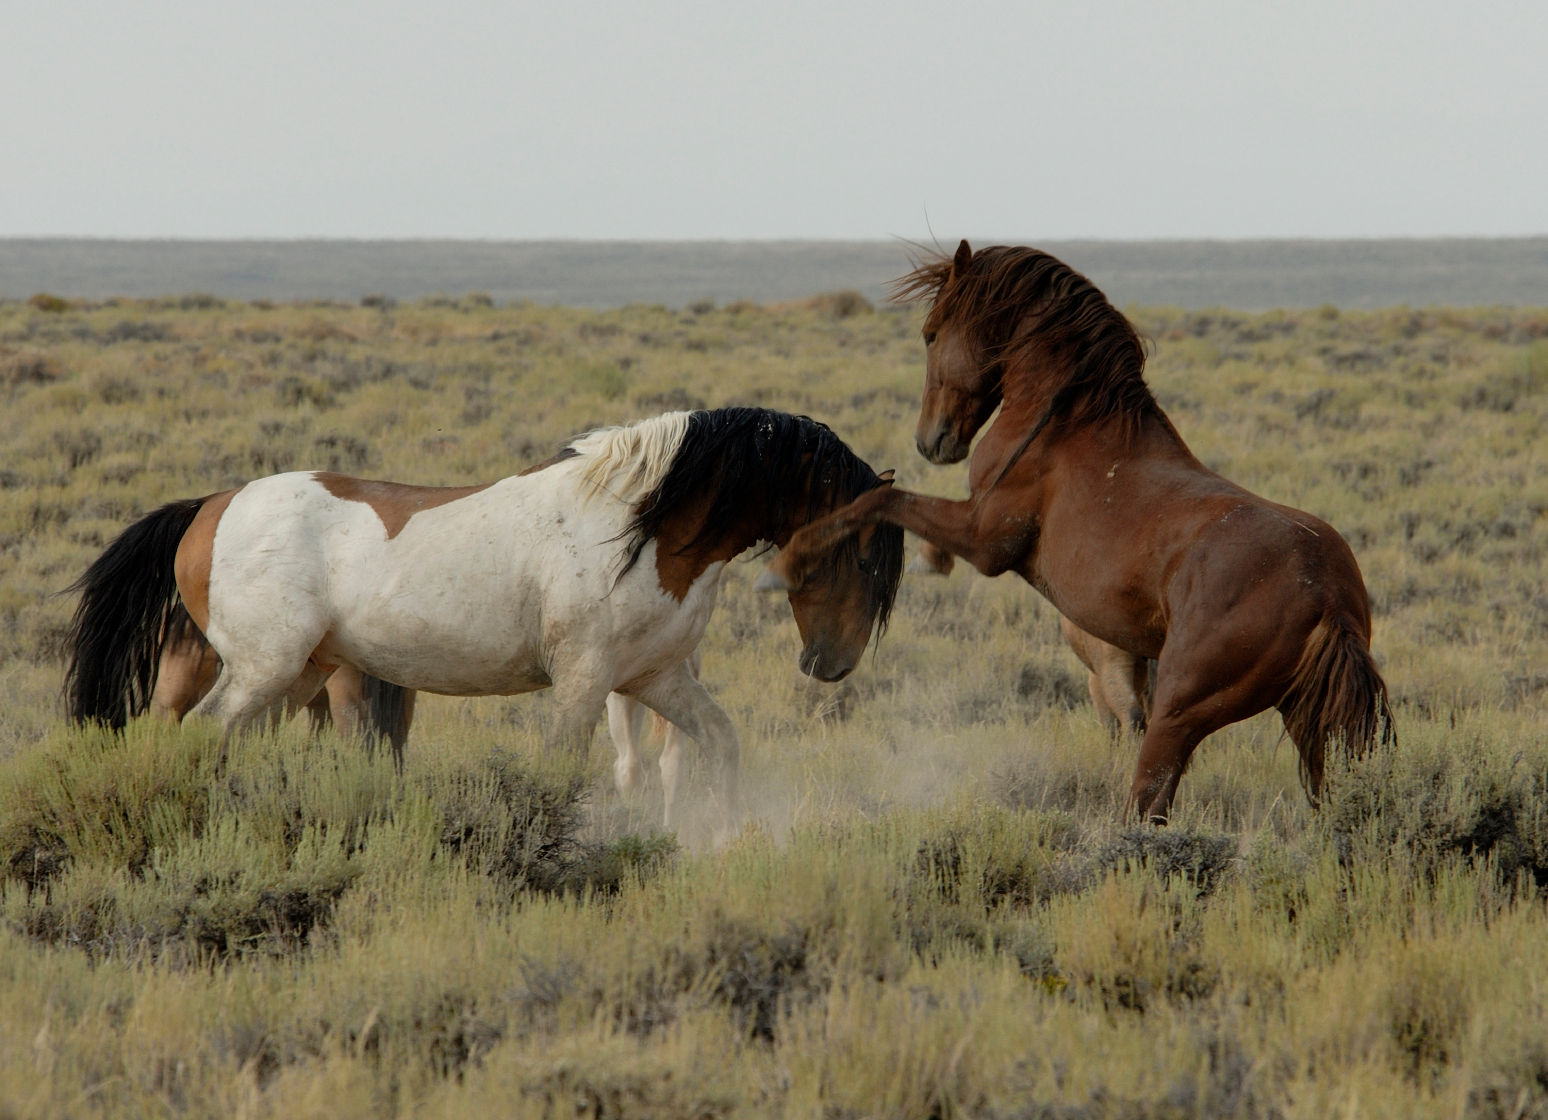
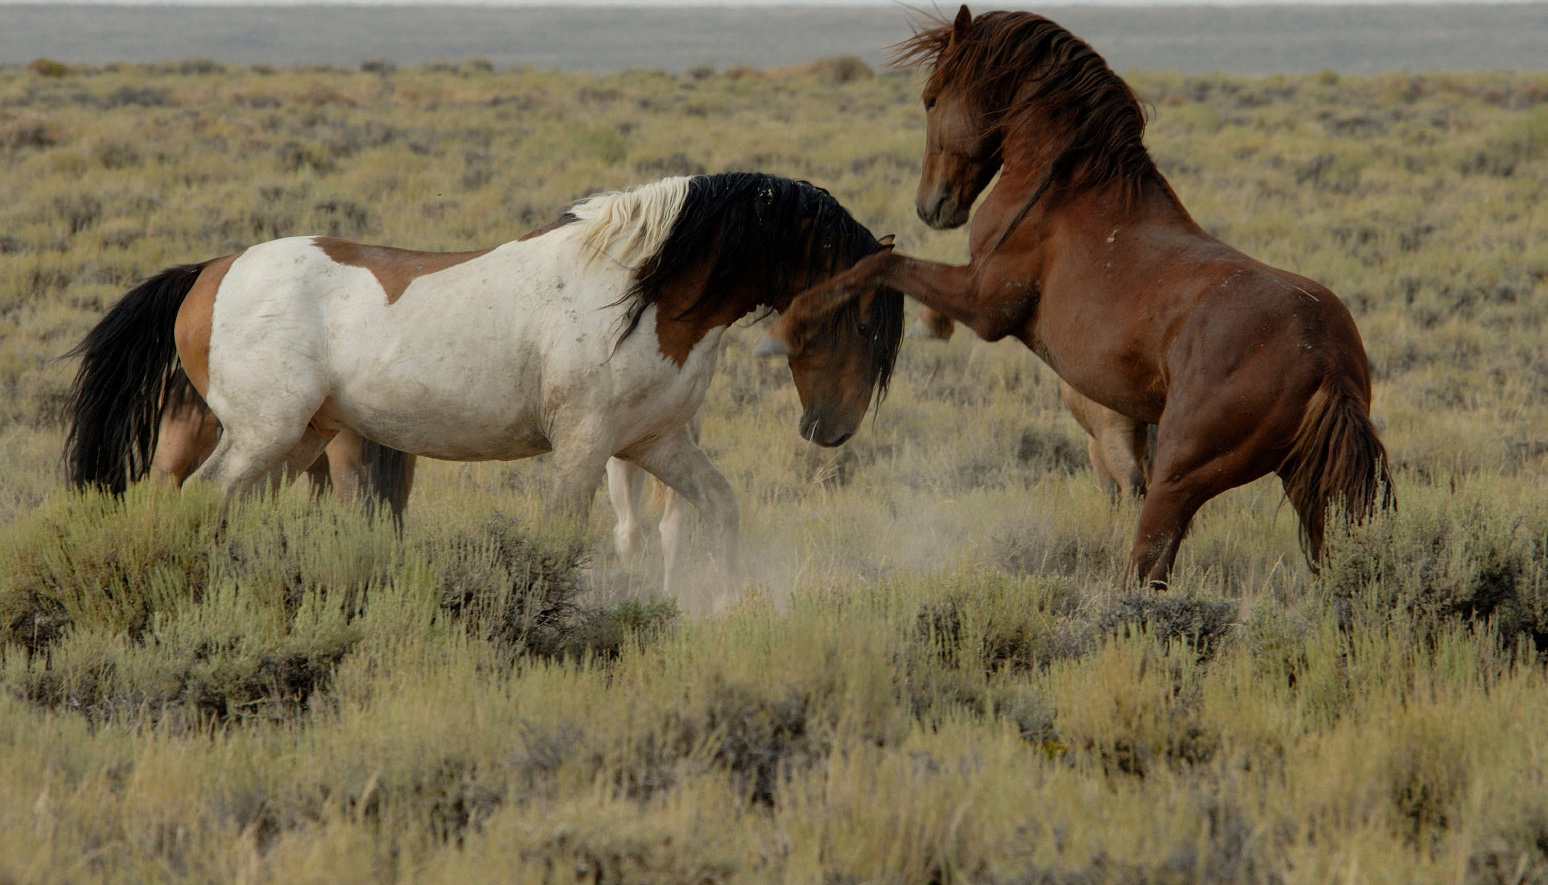
replacing hero image and menu styles

diff --git a/_sass/neat/_parallax_hero.scss b/_sass/neat/_parallax_hero.scss
@@ -17,9 +17,8 @@ $parallax-background-height: $parallax-window-height * 2;
 }
 
 .parallax-background {
-  background: url("../../uploads/thrive-wild-horses.jpeg") repeat;
+  background: url("../../uploads/thrive_hero_image.jpg") repeat;
   background-position: top;
-  background-size: cover;
   background-color: beige;
   height: $parallax-background-height;
   left: 0;

diff --git a/_sass/neat/_menu.scss b/_sass/neat/_menu.scss
@@ -5,7 +5,7 @@ header.navigation {
   $dark-gray: #333 !default;
   $large-screen: 53.75em !default;
   $navigation-padding: 1em;
-  $navigation-background: $dark-gray;
+  $navigation-background: #303F9F;
   $navigation-color: transparentize(white, 0.3);
   $navigation-color-hover: white;
   $navigation-height: 60px;

diff --git a/index.html b/index.html
@@ -12,7 +12,7 @@ menu_name: Home
   <div id="js-parallax-background" class="parallax-background"></div>
 </div>
 
-<section class='row'>
+<section class='row row-1'>
   <div class="cards">
     {% for callout in site.callouts %}
       <div class="card">

diff --git a/_sass/neat/_neat.scss b/_sass/neat/_neat.scss
@@ -31,4 +31,7 @@ body {
 
 .row {
   padding: 2.5em 0;
+  &.row-1 {
+    background: #E8EAF6;
+  }
 }
